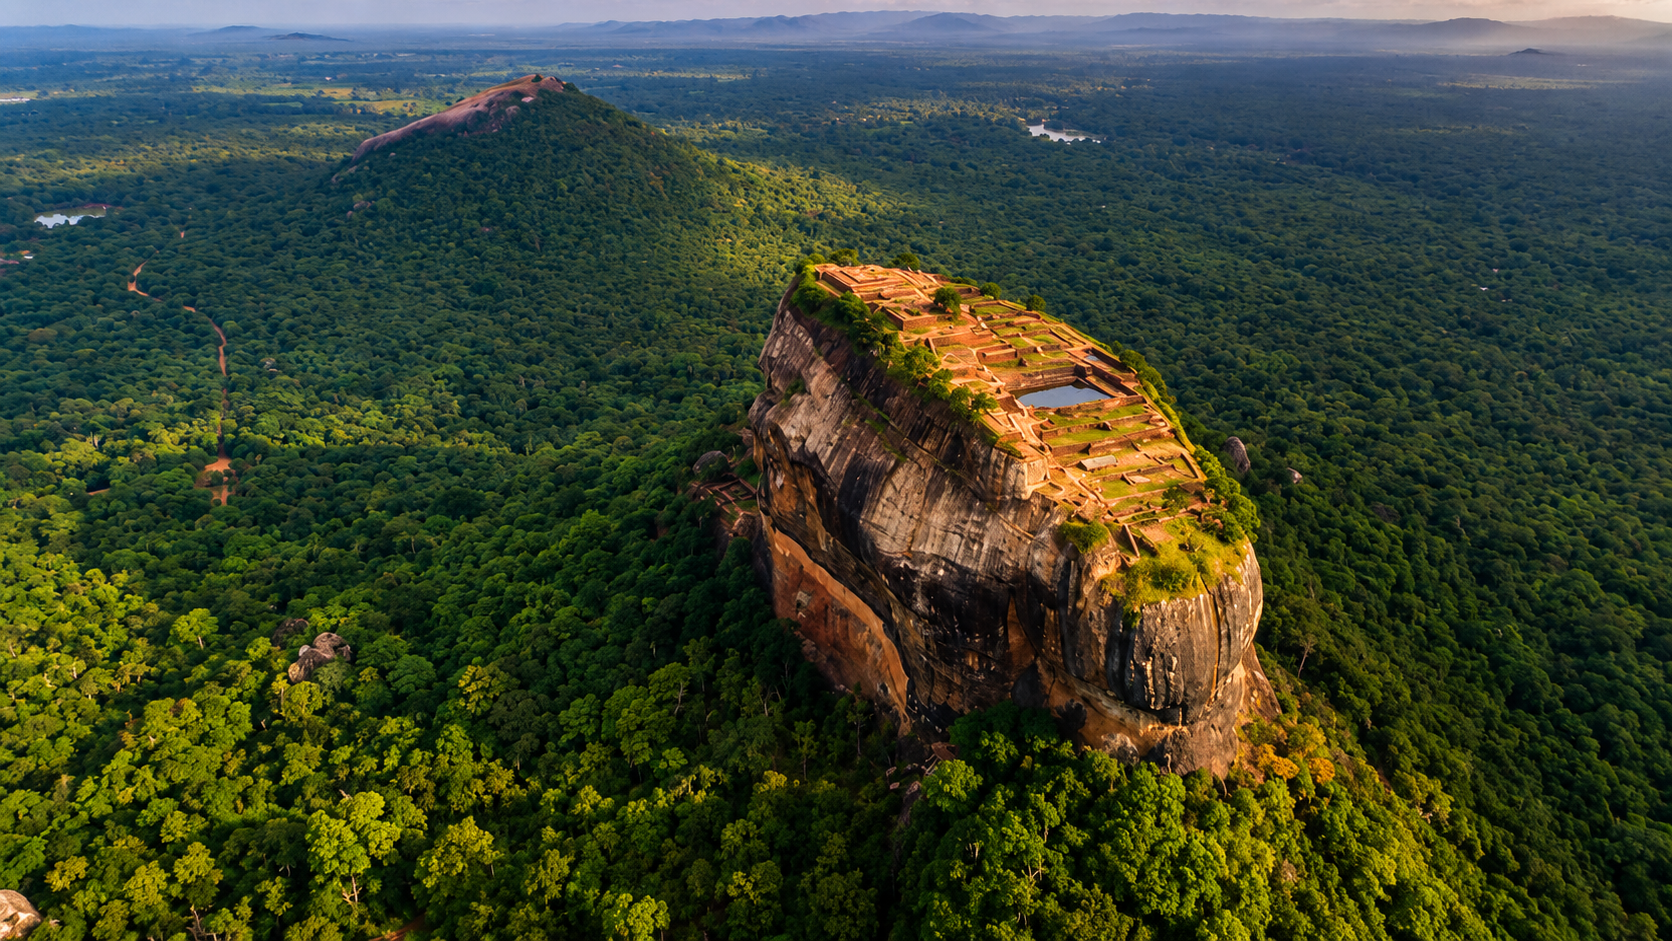
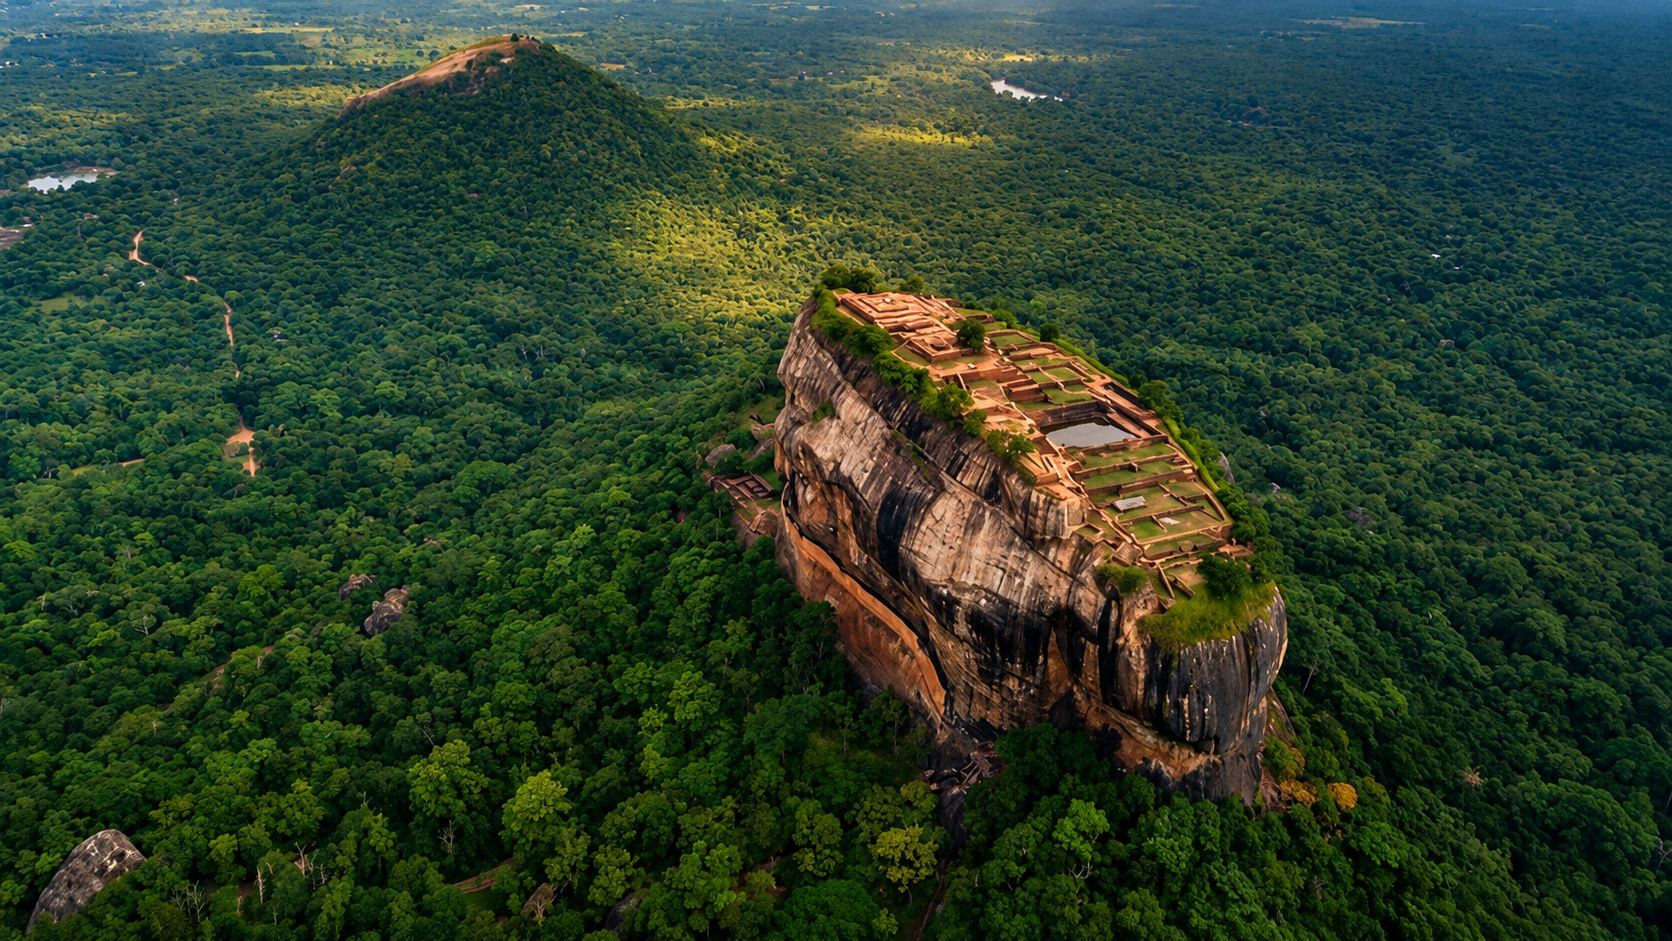
Update hotel signup routes and add new signup steps🖊

diff --git a/src/routes/AppRoutes.jsx b/src/routes/AppRoutes.jsx
@@ -29,7 +29,7 @@ import TravellerSignupStep1 from "../pages/auth/TravellerSignupStep1";
 import TravellerSignupStep2 from "../pages/auth/TravellerSignupStep2";
 import TravellerSignupStep3 from "../pages/auth/TravellerSignupStep3";
 
-import HotelOwnerSignupStep1 from "../pages/auth/HotelOwnerSignupStep1";
+import HotelSignupStep1 from "../pages/auth/hotel/HotelSignupStep1";
 
 const AppRoutes = () => {
   return (
@@ -63,7 +63,7 @@ const AppRoutes = () => {
       <Route path="/signup/traveller/personal" element={<TravellerSignupStep2 />} />
       <Route path="/signup/traveller/photo" element={<TravellerSignupStep3 />} />
       
-      <Route path="/signup/hotel" element={<HotelOwnerSignupStep1 />} />
+      <Route path="/signup/hotel" element={<HotelSignupStep1 />} />
       <Route path="/admin/*" element={<AdminPage />} />
       
     </Routes>
